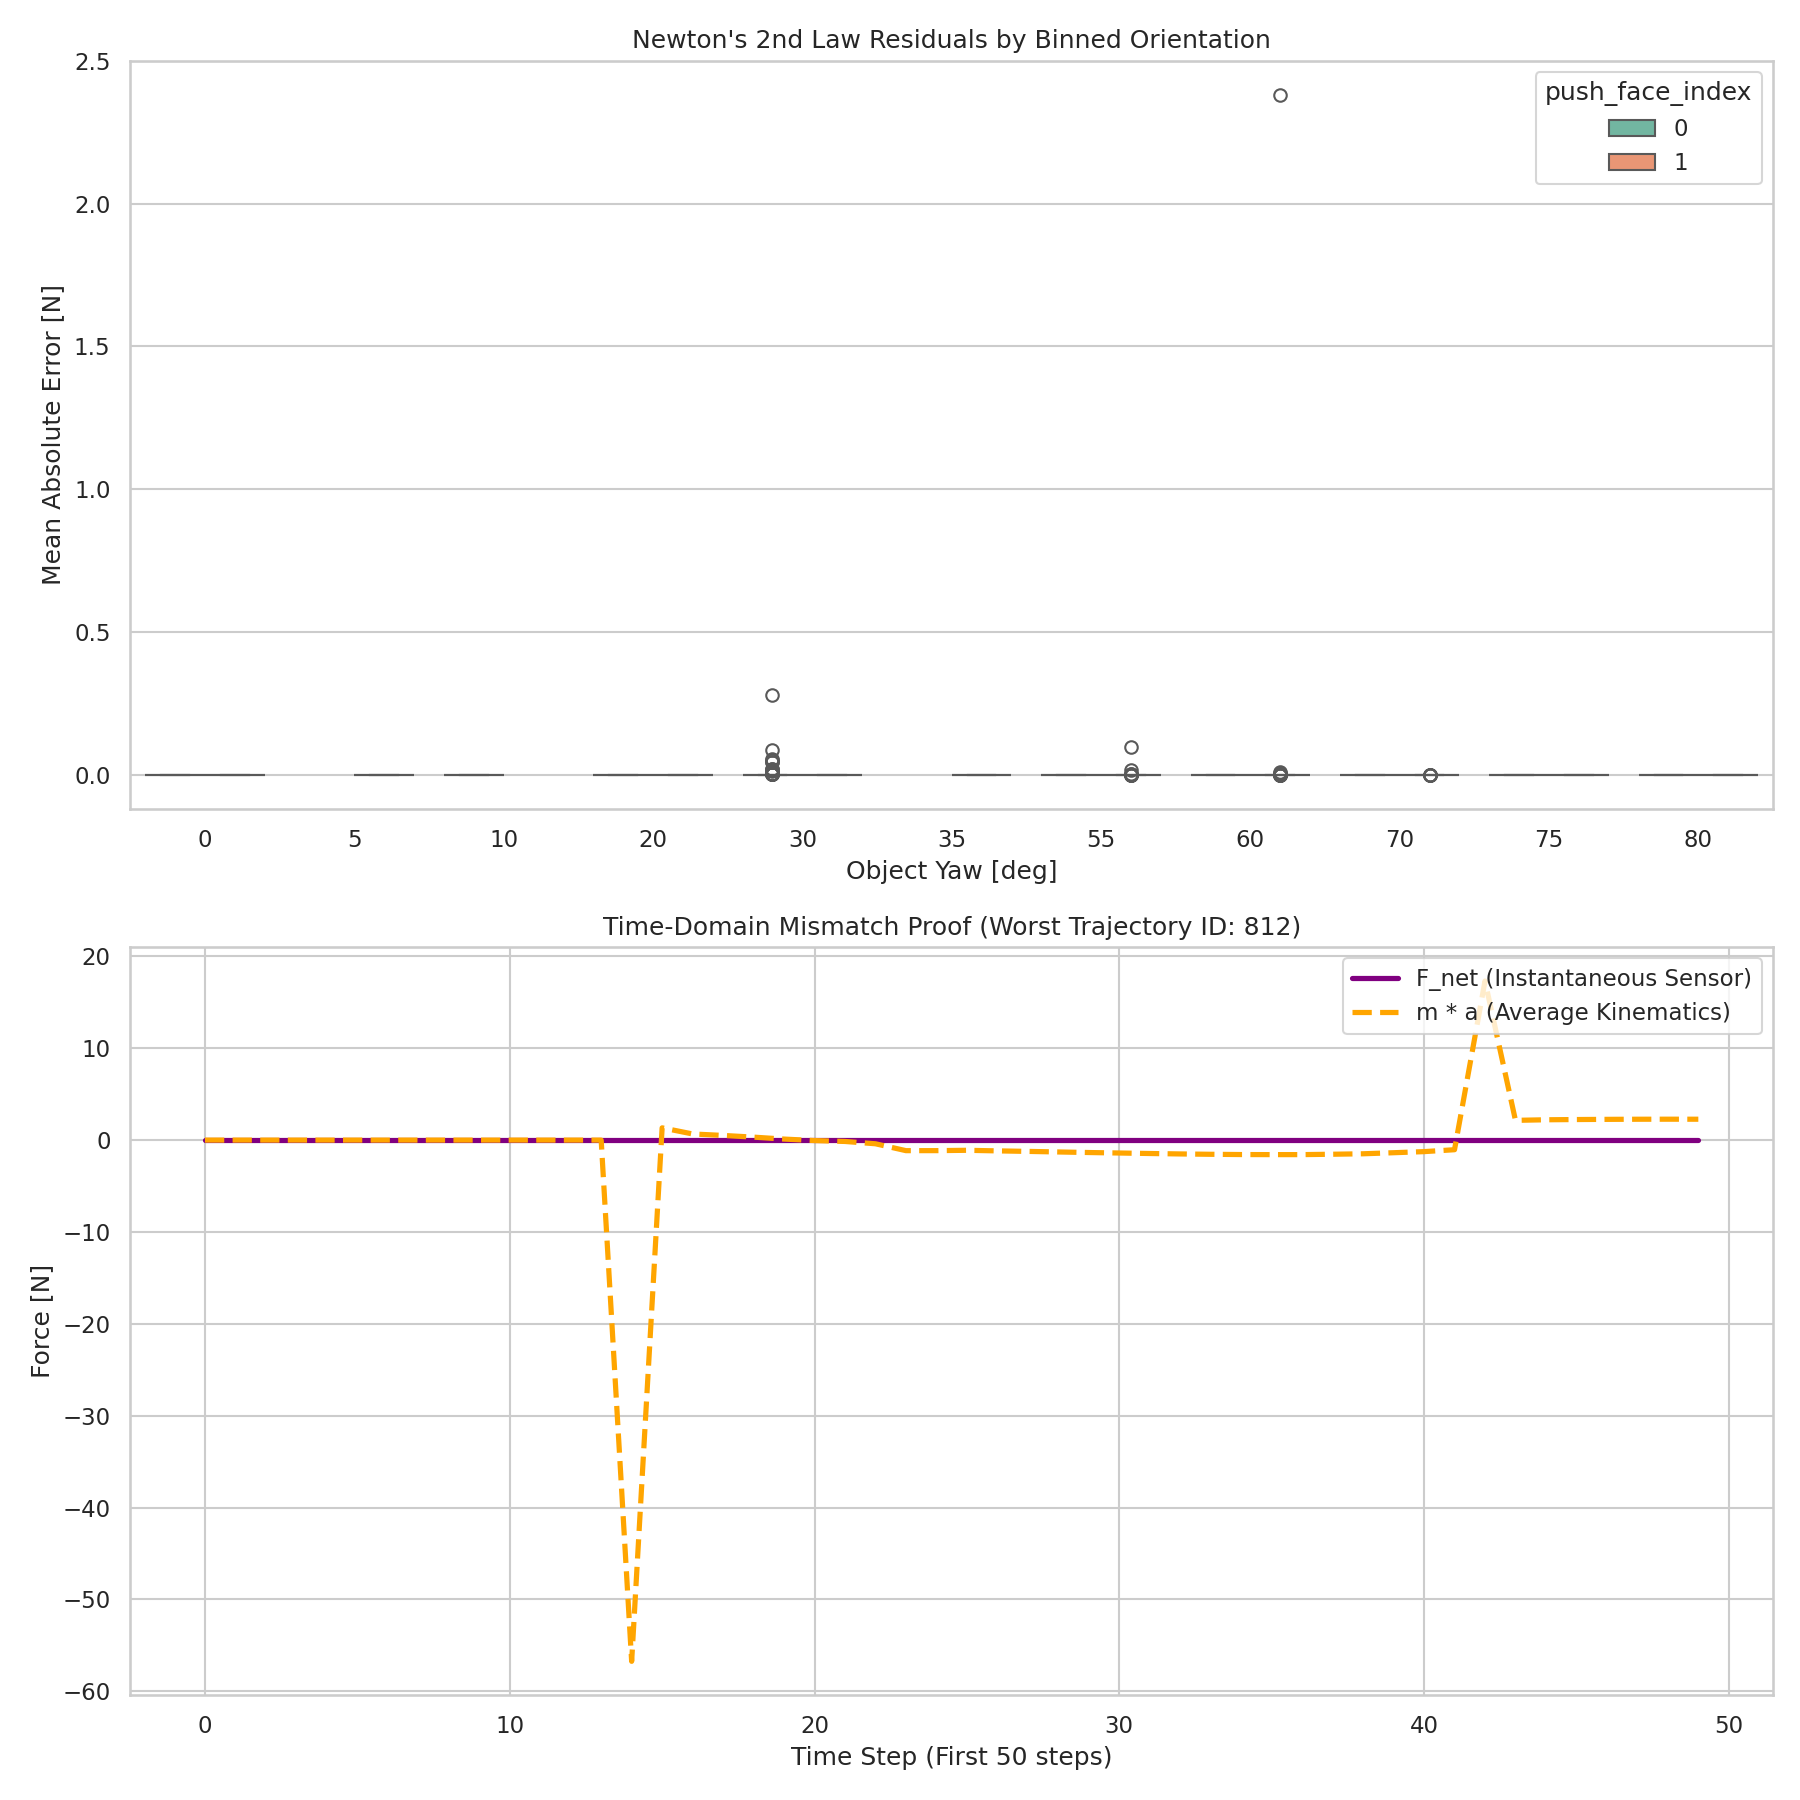
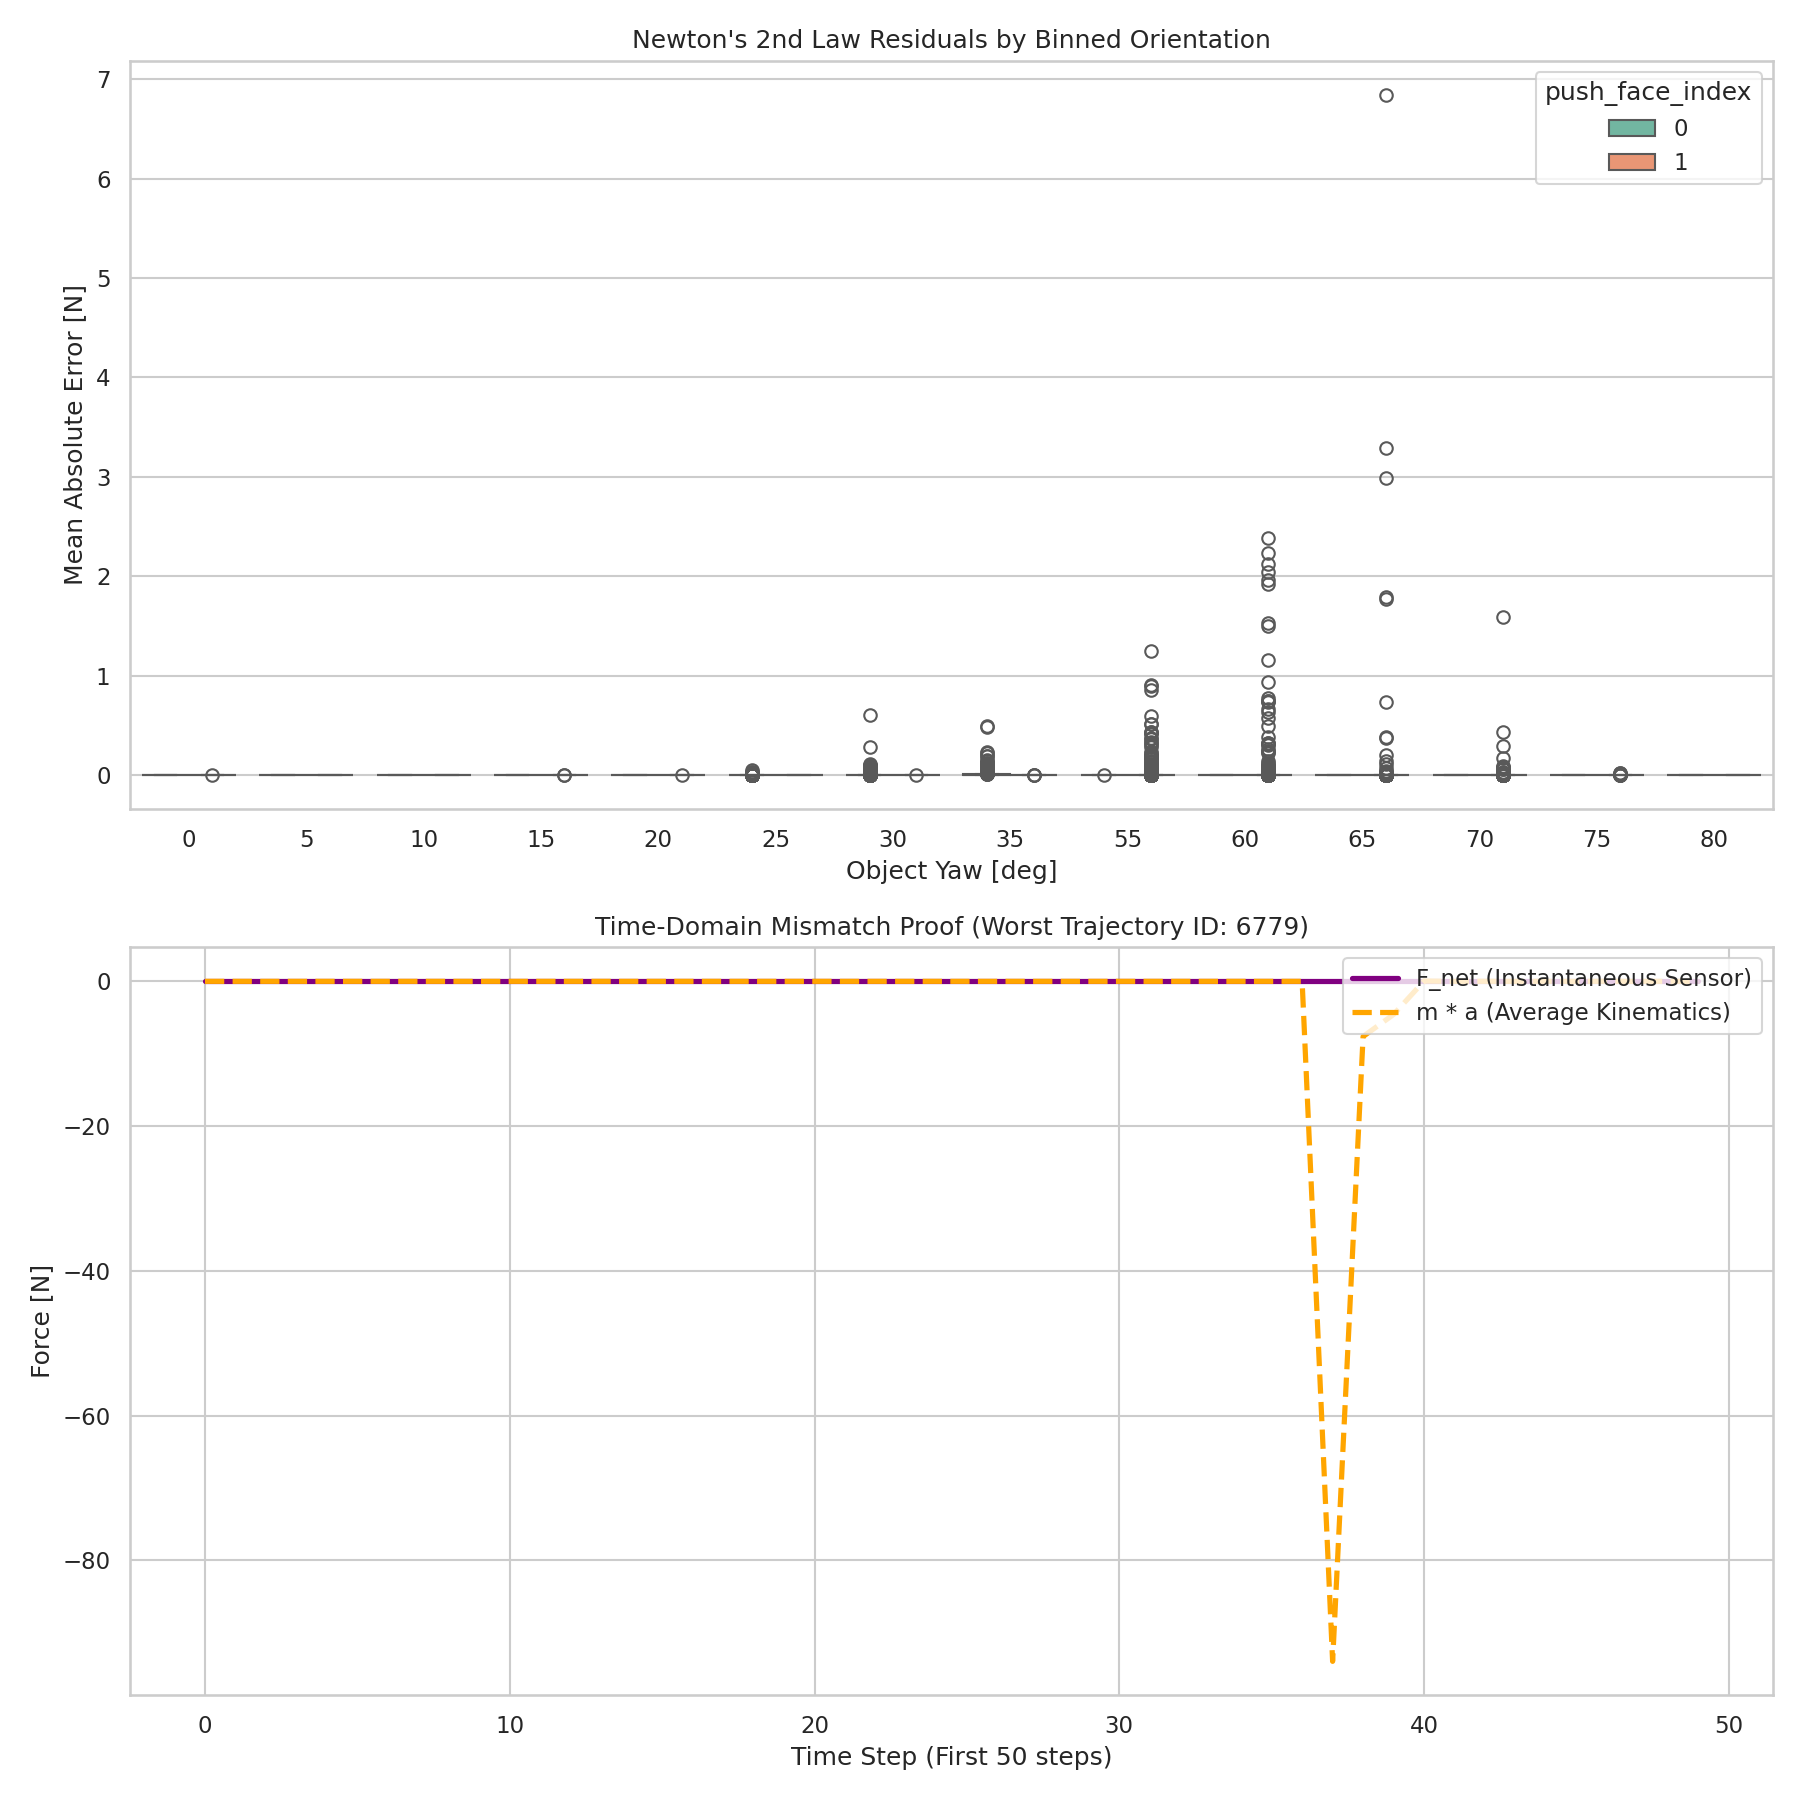
started introducing arm state and newly trained multi angle push

diff --git a/configs.py b/configs.py
@@ -92,7 +92,7 @@ if FRAME_MODE == "world":
 elif FRAME_MODE == "local":
     if MULTI_ANGLE:
         # CSV_PATH = "/home/psxkf4/IsaacLab/source/collected_data/data_cube_closed_gripper_multi_angle.csv"
-        CSV_PATH = "/home/psxkf4/IsaacLab/source/collected_data/data_cube_closed_gripper_multi_angle_v2_test.csv"
+        CSV_PATH = "/home/psxkf4/IsaacLab/source/collected_data/data_cube_closed_gripper_multi_angle_v2.csv"
     else:
         # CSV_PATH = "/home/psxkf4/IsaacLab/source/collected_data/data_trans_cube.csv" # force_v2, force_v3
         CSV_PATH = "/home/psxkf4/IsaacLab/source/collected_data/data_cube_closed_gripper.csv" # force_v4
@@ -372,7 +372,7 @@ config_multi_angle = {
     'dropout': 0.0004615346900806658,
     'sharpness': 1.0,
     'cross_sharpness': 1.2965844927099692,
-    'm_sharpness': 5.0,
+    'm_sharpness': 3.9822290389819024,
     'mu_sharpness': 9.814362222938573,
     'init_lr': 9.223299520640666e-05,
     'pinn_criterion': "L1",

diff --git a/aggregate_sim_proppush.py b/aggregate_sim_proppush.py
@@ -43,13 +43,13 @@ MODELS_TO_COMPARE = {
             "force_input": "No"
         },
     r"PhyPush arm-conditioned": {
-            "path": os.path.join(BASE_RUN_DIR, "20260811_184657", f"pinn_pcri-L1_p5c10.0_multiangle/{csv_file}"),
+            "path": os.path.join(BASE_RUN_DIR, "20260813_075042", f"pinn_pcri-L1_p5c10.0_multiangle/{csv_file}"),
             "force_input": "No"
         },
-    r"PhyPush arm-conditioned 2": {
-        "path": os.path.join(BASE_RUN_DIR, "20260811_221243", f"pinn_pcri-L1_p5c10.0_multiangle/{csv_file}"),
-        "force_input": "No"
-    },
+    # r"PhyPush arm-conditioned 2": {
+    #     "path": os.path.join(BASE_RUN_DIR, "20260811_221243", f"pinn_pcri-L1_p5c10.0_multiangle/{csv_file}"),
+    #     "force_input": "No"
+    # },
 
 }
 

diff --git a/train.py b/train.py
@@ -36,7 +36,7 @@ def main():
     # 1. HYPERPARAMETERS (Stored in a Dictionary)
     # ==========================================
     config = used_config
-    DEBUG_PHYSICS = True
+    DEBUG_PHYSICS = False
 
     # Override pinn4 coefficients if diff_coeffs_pinn4 is set to 1
     if config['diff_coeffs_pinn4']:

diff --git a/evaluate.py b/evaluate.py
@@ -25,8 +25,7 @@ SMOOTHING_WINDOW_SIZE = 3
 TOP_NUM = 10
 
 if MULTI_ANGLE:
-    time = "20260811_184657"
-    # time = "20260811_221243"
+    time = "20260813_075042"
     model = "pinn_pcri-L1_p5c10.0_multiangle"
 else:
     time = "20260811_063229"
